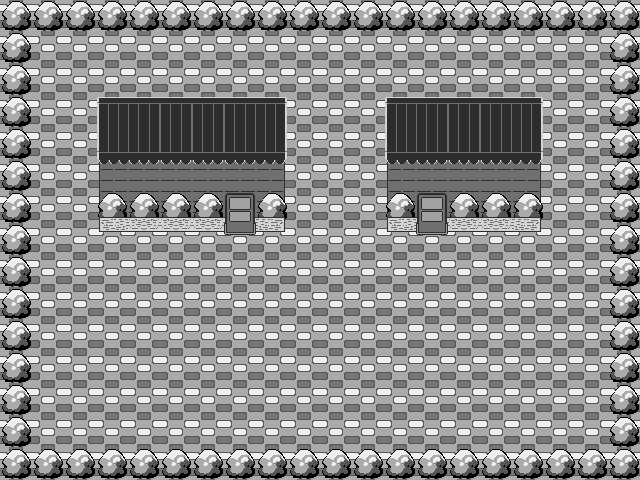
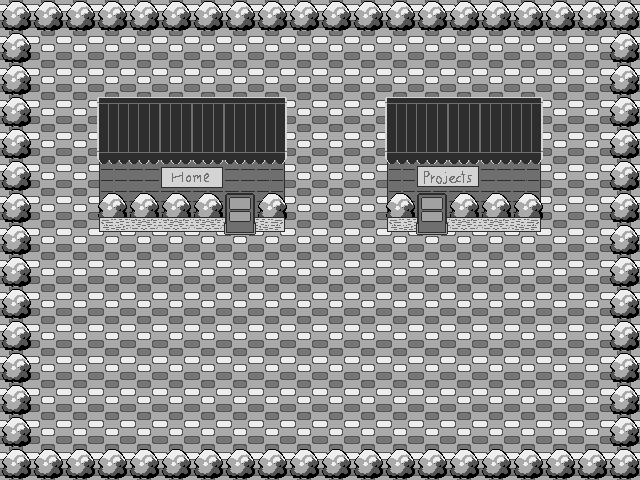
reimplement nav-game with new method

Changed region(s): [[0.625, 0.3438, 0.75, 0.4062], [0.25, 0.3438, 0.375, 0.4062]]

diff --git a/src/components/nav/navGame/NavGame.tsx b/src/components/nav/navGame/NavGame.tsx
@@ -8,7 +8,8 @@ import { IGrid } from '../../../types/grid';
 import { Direction } from '../../../types/direction';
 import NavGameHud from './navGameHud/NavGameHud';
 import { ICell } from '../../../types/cell';
-import { useNavigate } from 'react-router-dom';
+import { useLocation, useNavigate } from 'react-router-dom';
+import { IDoor } from '../../../types/door';
 
 interface NavGameProps {
   isOpen: boolean,
@@ -21,15 +22,34 @@ interface NavGameProps {
  * @returns {JSX.Element | null}
  */
 function NavGame(props: NavGameProps): JSX.Element | null {
-  const [currentPosition, setCurrentPosition] = React.useState<IVector2>({ x: 0 * CELL_SIZE, y: 0 * CELL_SIZE});
-  const [targetPosition, setTargetPosition] = React.useState<IVector2>({ x: 0 * CELL_SIZE, y: 0 * CELL_SIZE});
+  const [currentPosition, setCurrentPosition] = React.useState<IVector2>({ x: 1 * CELL_SIZE, y: 1 * CELL_SIZE});
+  const [targetPosition, setTargetPosition] = React.useState<IVector2>({ x: 1 * CELL_SIZE, y: 1 * CELL_SIZE});
   const [isMoving, setMoving] = React.useState<boolean>(false);
   const [direction, setDirection] = React.useState<Direction>(Direction.DOWN);
   const [downKeys, setDownKeys] = React.useState<Set<string>>(new Set<string>());
   const [spaceDown, setSpaceDown] = React.useState<boolean>(false);
   const [popupText, setPopupText] = React.useState<string | null>(null);
 
+  const location = useLocation();
   const navigate = useNavigate();
+
+  React.useEffect(function placePlayerOutsideCurrentDoor() {
+    const door = getDoorAtLocation(location.pathname, props.grid);
+    if (door == null) return;
+    setTargetPosition({ x: (door.position.x * CELL_SIZE), y: ((door.position.y + 1) * CELL_SIZE) });
+    setCurrentPosition({ x: (door.position.x * CELL_SIZE), y: ((door.position.y + 1) * CELL_SIZE) });
+  }, [ props.isOpen, location, props.grid]);
+
+  React.useEffect(function navigateWhenEnterDoor() {
+    if (props.isOpen === true) {
+      if (currentPosition.x === targetPosition.x && currentPosition.y === targetPosition.y) {
+        const door = getDoorAtPosition(currentPosition, props.grid);
+        if (door) {
+          navigate(door.location)
+        };
+      }
+    }
+  }, [ currentPosition, targetPosition, props.isOpen, props.grid ]);
 
   React.useEffect(function setDirectionDownOnOpen() {
     setDirection(Direction.DOWN);
@@ -41,6 +61,8 @@ function NavGame(props: NavGameProps): JSX.Element | null {
       const newTime: number = new Date().getTime();
       const delta: number = newTime - time;
       time = newTime;
+
+      if (props.isOpen === false) return;
 
       const distance = (PLAYER_SPEED * CELL_SIZE) / (1000 / delta);
 
@@ -56,7 +78,7 @@ function NavGame(props: NavGameProps): JSX.Element | null {
     return (() => {
       clearInterval(interval);
     })
-  }, [ targetPosition ]);
+  }, [ targetPosition, props.isOpen ]);
 
   React.useEffect(function addKeyListeners() {
     const keydownListener = (event: KeyboardEvent) => {
@@ -179,7 +201,8 @@ const CELL_SIZE = parseInt(getComputedStyle(document.documentElement).getPropert
 const PLAYER_SPEED = 5;
 
 function getCurrentCell(currentPosition: IVector2, grid: IGrid): ICell | undefined {
-  return grid.cells.find(c => c.position.x === currentPosition.x / CELL_SIZE && c.position.y === currentPosition.y / CELL_SIZE);
+  return getCellAtPosition(currentPosition, grid);
+  // return grid.cells.find(c => c.position.x === currentPosition.x / CELL_SIZE && c.position.y === currentPosition.y / CELL_SIZE);
 }
 
 function getCellInFrontOfPlayer(currentPosition: IVector2, direction: Direction, grid: IGrid): ICell | undefined {
@@ -199,11 +222,26 @@ function getCellInFrontOfPlayer(currentPosition: IVector2, direction: Direction,
       targetCellPosition.x -= 1;
       break;
   }
-  return grid.cells.find(c => c.position.x === targetCellPosition.x && c.position.y === targetCellPosition.y);
+  return getCellAtPosition(targetCellPosition, grid);
+  // return grid.cells.find(c => c.position.x === targetCellPosition.x && c.position.y === targetCellPosition.y);
 }
 
 function canMoveInDirection(currentPosition: IVector2, direction: Direction, grid: IGrid): boolean {
   const targetCell = getCellInFrontOfPlayer(currentPosition, direction, grid);
   if (targetCell == null) return false;
   return targetCell.isTraversable;
+}
+
+function getCellAtPosition(position: IVector2, grid: IGrid): ICell | undefined {
+  if ( position.x < 0 || position.y < 0 || position.x >= grid.cells.length || position.y >= grid.cells[0].length) return undefined;
+  return grid.cells[position.x][position.y];
+}
+
+function getDoorAtPosition(position: IVector2, grid: IGrid): IDoor | undefined {
+  const door = grid.doors.find(d => d.position.x === (position.x / CELL_SIZE) && d.position.y === (position.y / CELL_SIZE));
+  return door;
+}
+
+function getDoorAtLocation(location: string, grid: IGrid): IDoor | undefined {
+  return grid.doors.find(d => d.location === location);
 }

diff --git a/src/components/nav/navGame/defaultGrid/cells.ts b/src/components/nav/navGame/defaultGrid/cells.ts
@@ -1,0 +1,62 @@
+import { ICell } from "../../../../types/cell";
+import { IVector2 } from "../../../../types/vectory2";
+
+const treeCell: ICell = {
+  isTraversable: false,
+  interactText: 'Just an ordinary bush. Useful for keeping nosy adventurers on the right path.'
+};
+
+const groundCell: ICell = {
+  isTraversable: true,
+  interactText: null
+};
+
+const hedgeCell: ICell = {
+  isTraversable: false,
+  interactText: 'Some hedges planted outside a building. Looks awfully like an ordinary bush.'
+}
+
+const blockedCell: ICell = {
+  isTraversable: false,
+  interactText: null
+}
+
+const doorCell: ICell = {
+  isTraversable: true,
+  interactText: "Leads inside the building. Maybe I should step inside?"
+}
+
+const cells: ICell[][] = [
+  getNCell(15, treeCell),
+  [ treeCell, ...getNCell(13, groundCell), treeCell],
+  [ treeCell, ...getNCell(13, groundCell), treeCell],
+  [ treeCell, ...getNCell(2, groundCell),  ...getNCell(3, blockedCell), hedgeCell, ...getNCell(7, groundCell),  treeCell],
+  [ treeCell, ...getNCell(2, groundCell),  ...getNCell(3, blockedCell), hedgeCell, ...getNCell(7, groundCell),  treeCell],
+  [ treeCell, ...getNCell(2, groundCell),  ...getNCell(3, blockedCell), hedgeCell, ...getNCell(7, groundCell),  treeCell],
+  [ treeCell, ...getNCell(2, groundCell),  ...getNCell(3, blockedCell), hedgeCell, ...getNCell(7, groundCell),  treeCell],
+  [ treeCell, ...getNCell(2, groundCell),  ...getNCell(3, blockedCell), doorCell, ...getNCell(7, groundCell),  treeCell],
+  [ treeCell, ...getNCell(2, groundCell),  ...getNCell(3, blockedCell), hedgeCell, ...getNCell(7, groundCell),  treeCell],
+  [ treeCell, ...getNCell(13, groundCell), treeCell],
+  [ treeCell, ...getNCell(13, groundCell), treeCell],
+  [ treeCell, ...getNCell(13, groundCell), treeCell],
+  [ treeCell, ...getNCell(2, groundCell),  ...getNCell(3, blockedCell), hedgeCell, ...getNCell(7, groundCell),  treeCell],
+  [ treeCell, ...getNCell(2, groundCell),  ...getNCell(3, blockedCell), doorCell, ...getNCell(7, groundCell),  treeCell],
+  [ treeCell, ...getNCell(2, groundCell),  ...getNCell(3, blockedCell), hedgeCell, ...getNCell(7, groundCell),  treeCell],
+  [ treeCell, ...getNCell(2, groundCell),  ...getNCell(3, blockedCell), hedgeCell, ...getNCell(7, groundCell),  treeCell],
+  [ treeCell, ...getNCell(2, groundCell),  ...getNCell(3, blockedCell), hedgeCell, ...getNCell(7, groundCell),  treeCell],
+  [ treeCell, ...getNCell(13, groundCell), treeCell],
+  [ treeCell, ...getNCell(13, groundCell), treeCell],  
+  getNCell(15, treeCell),
+]
+
+function getNCell(n: number, cell: ICell): ICell[] {
+  return Array.from({ length: n }, _ => ({...cell}));
+}
+
+// const cells: ICell[][] = Array.from({ length: 20 }, (_, x) => Array.from({ length: 15 }, (_, y) => ({
+//   position: { x, y },
+//   isTraversable: true,
+//   interactText: null
+// })));
+
+export default cells;

diff --git a/src/components/nav/navGame/defaultGrid/grid.ts b/src/components/nav/navGame/defaultGrid/grid.ts
@@ -1,31 +1,23 @@
-import { ICell } from "../../../../types/cell";
 import { IDoor } from "../../../../types/door";
 import { IGrid } from "../../../../types/grid";
-import { ISign } from "../../../../types/sign";
+import cells from "./cells";
 
 const gridSize = { x: 20, y: 15 };
 
-const cells: ICell[] = (function generateCells(): ICell[] {
-  const cells: ICell[] = [];
-  for (let x = 0; x < gridSize.x; x++) {
-    for (let y = 0; y < gridSize.y; y++) {
-      cells.push({
-        position: { x, y },
-        isTraversable: true,
-        interactText: null,
-      })
-    }
-  }
-  return cells;
-})();
-
-const signs: ISign[] = [];
-const doors: IDoor[] = [];
+const doors: IDoor[] = [
+  {
+    position: { x: 7, y: 6 },
+    location: '/'
+  },
+  {
+    position: { x: 13, y: 6 },
+    location: '/projects'
+  },
+];
 
 const grid: IGrid = {
   gridSize,
   cells,
-  signs,
   doors
 }
 

diff --git a/src/components/nav/navGame/grid/Grid.tsx b/src/components/nav/navGame/grid/Grid.tsx
@@ -30,12 +30,6 @@ export default function Grid(props: IGridProps): JSX.Element | null {
     <div className='grid-wrapper' id='grid-wrapper'>
       <div className='grid-inner-wrapper' style={calculateInnerWrapperStyle(props.currentPosition, props.grid)}>
         <ProcessedImage className={'grid-canvas'} imageSrc={gridImage} shaderMode={ImageProcessShaderMode.DARK} pixelateLevel={1} />
-        {props.grid.signs.map(
-          sign =>
-          <div className='grid-sign-wrapper' key={`grid-sign-${sign.text}`} style={calculateSignWrapperStyle(sign.position)}>
-            <span className='grid-sign'>{sign.text}</span>
-          </div>
-        )}
       </div>
     </div>
   );

diff --git a/src/components/pages/projects/ProjectsPage.tsx b/src/components/pages/projects/ProjectsPage.tsx
@@ -29,7 +29,7 @@ function ProjectsPage(props: ProjectsPageProps): JSX.Element | null {
 
   return (
     <div className='projects-page-wrapper page-wrapper'>
-      <h1 className='hidden'>Projects</h1>sd
+      <h1 className='hidden'>Projects</h1>
       <ProcessedImage className='page-header' pixelateLevel={1} imageSrc={headerImage} shaderMode={ImageProcessShaderMode.DARK} />
       <div className='page-block'>
         <Carousel rotateIntervalInMs={5000} >

diff --git a/src/components/nav/navGame/navGameHud/controlsExplanation/ControlsExplanation.tsx b/src/components/nav/navGame/navGameHud/controlsExplanation/ControlsExplanation.tsx
@@ -13,8 +13,9 @@ export default function ControlsExplanation(props: IControlsExplanationProps): J
   return (
     <div className='controls-explanation-wrapper'>
       <div className='controls-explanation-inner-wrapper'>
-        <span>Move: WASD | Click</span>
-        <span>Interact: Space | Click</span>
+        <span>Move: WASD</span>
+        <span>Interact: Space</span>
+        <span>Mobile: Not Implemented :(</span>
       </div>
     </div>
   );

diff --git a/src/components/shared/processedSprite/ProcessedSprite.tsx b/src/components/shared/processedSprite/ProcessedSprite.tsx
@@ -88,6 +88,6 @@ const CELL_SIZE = parseInt(getComputedStyle(document.documentElement).getPropert
 
 function getWrapperStyle(frame: number): React.CSSProperties {
   return {
-    transform: `translate(${(frame) * CELL_SIZE * -1}px, 0px)`
+    transform: `translate(${(frame) * (CELL_SIZE + 1) * -1}px, 0px)`
   }
 }

diff --git a/src/types/grid.ts b/src/types/grid.ts
@@ -1,11 +1,9 @@
 import { ICell } from "./cell";
 import { IDoor } from "./door";
-import { ISign } from "./sign";
 import { IVector2 } from "./vectory2";
 
 export interface IGrid {
   gridSize: IVector2,
-  cells: ICell[],
-  signs: ISign[],
+  cells: ICell[][],
   doors: IDoor[]
 }

diff --git a/src/types/cell.ts b/src/types/cell.ts
@@ -1,7 +1,6 @@
 import { IVector2 } from "./vectory2";
 
 export interface ICell {
-  position: IVector2,
   isTraversable: boolean,
   interactText: string | null,
 }

diff --git a/src/components/nav/navGame/player/Player.css b/src/components/nav/navGame/player/Player.css
@@ -6,5 +6,5 @@ div.player-wrapper {
   grid-column: 1 / 1;
   z-index: 2;
 
-  display: flex;
+  /* display: flex; */
 }
